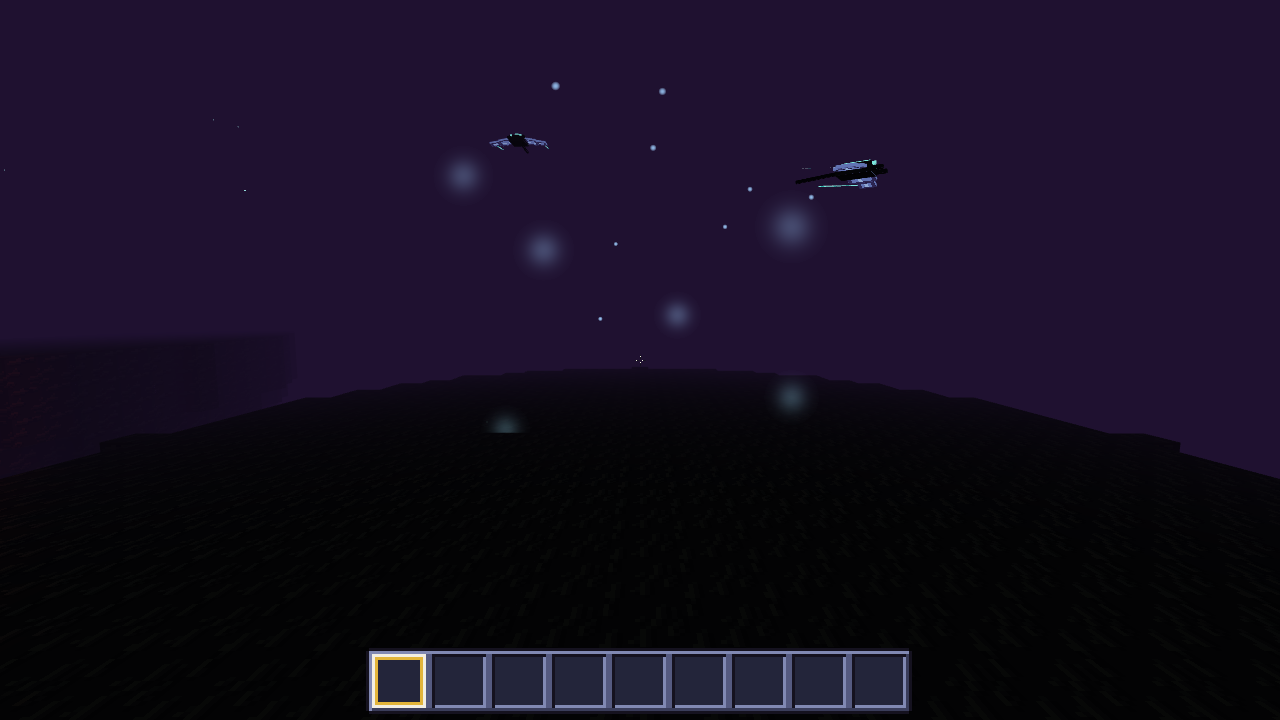
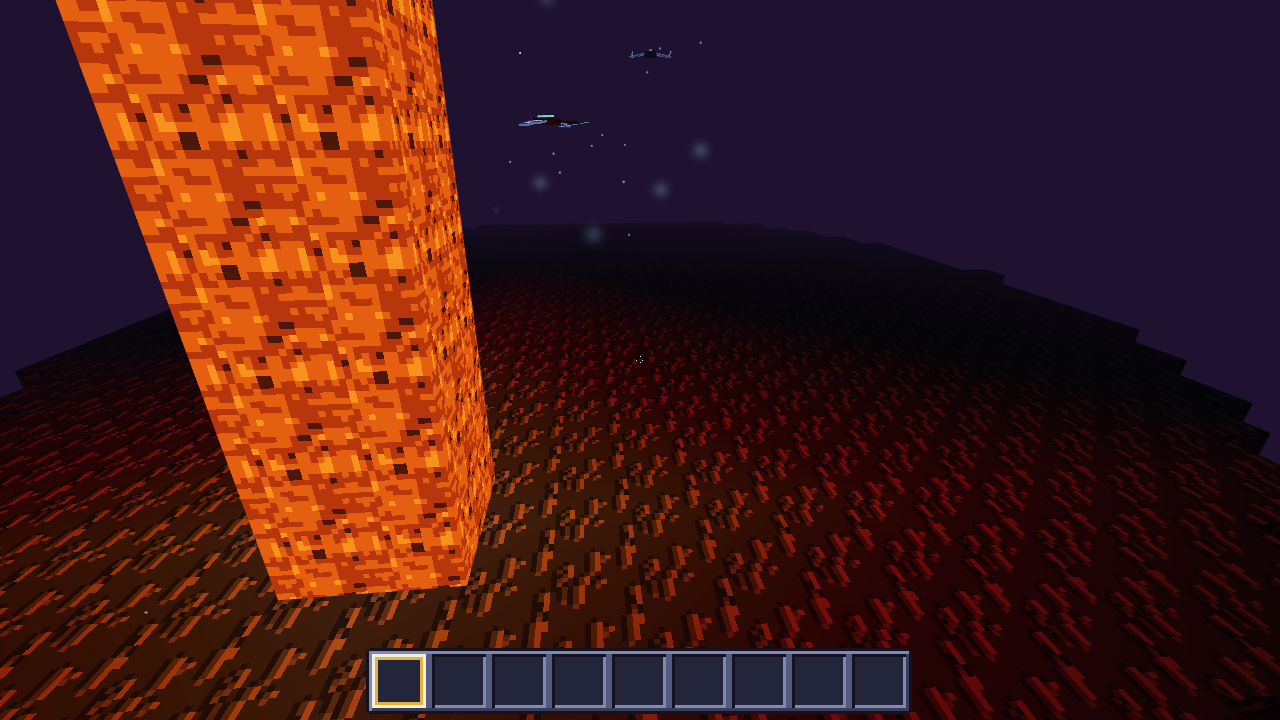
M20c: review round 1 fixes
- Reshoot m20-floating-islands beside a lavafall that pierces a
  floating island, so the lava-lit island top, Updraft halos and
  Glowwings are all visible; the spot checks the fall and ground blocks.
- Clear the Updraft field explicitly on travel, quit to menu and
  panorama teardown (clearUpdraftField), so the old world is not held.
- Magmaw ignites the player only when its hurtTarget hit lands.
- Unit tests for both fixes; handoff and decisions notes updated.

Claude-Session: https://claude.ai/code/session_0155bUSAtZkJMYBBcbMy8C9p

diff --git a/tests/e2e/m20c-updrafts-creatures.spec.ts b/tests/e2e/m20c-updrafts-creatures.spec.ts
@@ -15,8 +15,14 @@ const SEED = 'blockcraft-m20c';
 // Found from the seed's own fields (M20b's height field, the Updraft field and the island grid);
 // each test checks its spot before using it.
 const UPDRAFT = { x: 60.5, z: 22.5 };
-// A floating island with an Updraft rising through its middle.
-const ISLAND = { x: 167, z: -274, top: 97, updraft: { x: 168.5, z: -273.5 } };
+// A floating island pierced by a lavafall (a 2x2 ceiling fall), with an Updraft over its east half.
+const ISLAND = {
+  x: -223,
+  z: -26,
+  top: 116,
+  updraft: { x: -215.5, z: -25.5 },
+  fall: { x: -235, z: -29 },
+};
 const FOREST = { x: -15, z: 19 };
 const SHORE = { x: -29, z: -96 };
 
@@ -245,19 +251,25 @@ test('M20c: Hollowdeep forest, magma sea and floating islands look unlike the Ov
     height: sea.height / 2,
   });
 
-  // A floating island from its eastern rim, looking across its top through the Updraft's motes,
-  // with two Glowwings drifting over it.
+  // A floating island from beside its lavafall, looking east across the lava-lit top through the
+  // Updraft's motes, with two Glowwings drifting over it.
   await page.evaluate((island) => {
     const api = window.__blockcraft!;
-    api.spawn!('glowwing', island.x + 4.5, island.top + 7, island.z - 3.5);
-    api.spawn!('glowwing', island.x - 3.5, island.top + 10, island.z + 4.5);
+    api.spawn!('glowwing', island.x - 1.5, island.top + 6, island.z - 1.5);
+    api.spawn!('glowwing', island.x + 8.5, island.top + 9, island.z + 2.5);
   }, ISLAND);
-  await view(page, ISLAND.x + 14.5, ISLAND.top + 3, ISLAND.z + 0.5, Math.PI, -0.1);
-  const updraftHere = await page.evaluate(
-    (u) => window.__blockcraft!.findUpdraft!(u.x, u.z, 4),
-    ISLAND.updraft,
-  );
-  expect(updraftHere).toMatchObject(ISLAND.updraft);
+  await view(page, ISLAND.x - 17.5, ISLAND.top + 4, ISLAND.z - 0.5, 0.1, -0.4);
+  const spot = await page.evaluate((island) => {
+    const api = window.__blockcraft!;
+    return {
+      updraft: api.findUpdraft!(island.updraft.x, island.updraft.z, 4),
+      fall: api.getBlock!(island.fall.x, island.top + 2, island.fall.z).id,
+      ground: api.getBlock!(island.x, island.top, island.z).id,
+    };
+  }, ISLAND);
+  expect(spot.updraft).toMatchObject(ISLAND.updraft);
+  expect(spot.fall).toBe('lava');
+  expect(spot.ground).toBe('driftstone');
   biomes.island = await biomeAt(ISLAND);
   const islands = await assertAndSaveScreenshot({
     name: 'm20-floating-islands',

diff --git a/src/world/world-manager.ts b/src/world/world-manager.ts
@@ -83,7 +83,7 @@ import { PortalRenderer, WarpOverlay } from '../render/portal';
 import { SporeRenderer } from '../render/spores';
 import { LAVA_TICK_DELAY } from './fluids';
 import { HOLLOWDEEP_ENVIRONMENT } from '../gen/hollowdeep/environment';
-import { setUpdraftField, updraftField, UpdraftField } from './updrafts';
+import { clearUpdraftField, setUpdraftField, updraftField, UpdraftField } from './updrafts';
 import { UpdraftGlowRenderer } from '../render/updraft-glow';
 import { NIGHT_VISION_FLOOR } from '../gameplay/survival';
 import { setWorldDimension } from './world-dimension';
@@ -891,6 +891,7 @@ export class WorldManager {
       glBuffersAtStart: this.panoramaGlBuffersAtStart,
     };
     resetWeather();
+    clearUpdraftField();
     this.world = null;
     this.setWorldKind('default', { ...DEFAULT_WORLD_OPTIONS });
     if (this.panoramaSavedRenderDistance !== null)
@@ -925,6 +926,7 @@ export class WorldManager {
     this.playerController?.reset();
     this.chunkRenderer?.clearAllMeshes();
     this.meshAttempts.clear();
+    clearUpdraftField();
     this.world = null;
     this.resetDimensions('overworld');
     this.setWorldKind('default', { ...DEFAULT_WORLD_OPTIONS });
@@ -1464,10 +1466,8 @@ export class WorldManager {
       this.dimension === 'hollowdeep' ? HOLLOWDEEP_ENVIRONMENT.lavaFlowTickRate : LAVA_TICK_DELAY;
     // M20c: creature spawn rules follow the dimension, and only the Hollowdeep has Updrafts.
     setWorldDimension(world, this.dimension);
-    setUpdraftField(
-      world,
-      this.dimension === 'hollowdeep' ? new UpdraftField(this.worldSeed) : null,
-    );
+    clearUpdraftField();
+    if (this.dimension === 'hollowdeep') setUpdraftField(world, new UpdraftField(this.worldSeed));
   }
 
   /** Called after every tick: counts the player's time in a portal. Free while none is near. */
@@ -1591,6 +1591,8 @@ export class WorldManager {
       this.meshAttempts.clear();
       weatherManager.heightmap.clear();
       if (this.portalGuard) departing.listeners.delete(this.portalGuard);
+      // The world being left must not stay reachable through its Updraft field.
+      clearUpdraftField();
 
       this.dimension = to;
       const index = this.portalIndices[to];

diff --git a/tests/unit/m20c-updrafts-creatures.test.ts b/tests/unit/m20c-updrafts-creatures.test.ts
@@ -11,6 +11,7 @@ import {
   UPDRAFT_MAX_Y,
   UPDRAFT_MIN_Y,
   UpdraftField,
+  clearUpdraftField,
   gravityFactor,
   setUpdraftField,
   updraftField,
@@ -156,6 +157,14 @@ describe('M20c Updraft field', () => {
     setUpdraftField(overworld, null); // removing another world's field is a no-op
     expect(updraftField(world)).not.toBeNull();
     setUpdraftField(world, null);
+    expect(gravityFactor(world, z.x, 100, z.z)).toBe(1);
+  });
+
+  it('clearUpdraftField drops the field whichever world holds it', () => {
+    const { world, z } = updraftWorld();
+    expect(updraftField(world)).not.toBeNull();
+    clearUpdraftField();
+    expect(updraftField(world)).toBeNull();
     expect(gravityFactor(world, z.x, 100, z.z)).toBe(1);
   });
 });
@@ -503,6 +512,18 @@ describe('M20c Magmaw', () => {
     expect(near.player.hits[0]!.amount).toBe(5);
     expect(near.player.burning).toBe(MAGMAW_BURN_TICKS);
     near.runtime.dispose();
+  });
+
+  it('does not ignite a player whose i-frames absorb the hit', () => {
+    const s = lavaScene([5.5, GROUND, 0.5]);
+    const hurt = vi.spyOn(s.player, 'hurt').mockReturnValue(false);
+    const id = s.runtime.spawn(MAGMAW, 0.5, 61, 0.5);
+    run(s.ecs, 120);
+    expect(s.ecs.get(id, MagmawC)!.lunges).toBeGreaterThan(0);
+    expect(hurt).toHaveBeenCalled();
+    expect(s.ecs.get(id, MagmawC)!.hits).toBe(0);
+    expect(s.player.burning).toBe(0);
+    s.runtime.dispose();
   });
 
   it('goes straight back into the lava after landing on the shore', () => {

diff --git a/src/entity/mobs/magmaw.ts b/src/entity/mobs/magmaw.ts
@@ -234,8 +234,11 @@ export class MagmawGoal extends MobGoal {
         const own = this.runtime.entityBounds(this.id)!;
         const box = this.runtime.targetBounds(PLAYER_TARGET)!;
         if (boxGap(own, box) <= 0.35) {
-          if (this.runtime.hurtTarget(PLAYER_TARGET, MAGMAW_DAMAGE, this.id)) state.hits++;
-          target.ignite?.(MAGMAW_BURN_TICKS);
+          // Only a hit that lands (not one absorbed by i-frames) sets the player on fire.
+          if (this.runtime.hurtTarget(PLAYER_TARGET, MAGMAW_DAMAGE, this.id)) {
+            state.hits++;
+            target.ignite?.(MAGMAW_BURN_TICKS);
+          }
           this.setMode('return');
           return;
         }

diff --git a/src/world/updrafts.ts b/src/world/updrafts.ts
@@ -130,6 +130,12 @@ export function setUpdraftField(world: World, next: UpdraftField | null): void {
   }
 }
 
+/** Drops the field whichever world holds it, so a world left behind is not kept alive. */
+export function clearUpdraftField(): void {
+  fieldWorld = null;
+  field = null;
+}
+
 /** The Updraft field of `world`, if it has one. */
 export function updraftField(world: World): UpdraftField | null {
   return fieldWorld === world ? field : null;

diff --git a/progress/M20c.md b/progress/M20c.md
@@ -4,7 +4,7 @@ Status: verified
 Depends on: M20a, M20b, M16b
 Full verify: PR CI (owner override: no local full verify). This session:
 
-- `MILESTONE=M20 npm run verify:quick`: typecheck ✓ · lint ✓ · placeholders ✓ · unit 135 files / 1237 tests passed · e2e (m20a, m20b, m20c) 9 passed.
+- `MILESTONE=M20 npm run verify:quick`: typecheck ✓ · lint ✓ · placeholders ✓ · unit 135 files / 1239 tests passed · e2e (m20a, m20b, m20c) 9 passed.
 - Touched-milestone e2e (m06, m06b, m13d–h, m14, m16b, m17b): 53 passed.
 
 ## Acceptance criteria owned
@@ -15,7 +15,7 @@ Full verify: PR CI (owner override: no local full verify). This session:
 - [x] E2E Hollowdeep pixel and hue checks → the same spec › "Hollowdeep forest, magma sea and
       floating islands look unlike the Overworld": not blank, no missing texture, colour
       variance, every scene's mean hue ≥ 45° from the Overworld reference (measured 341°, 352°
-      and 265° vs 178°), lava red over blue in the sea view.
+      and 6° vs 178°), lava red over blue in the sea view.
 - [x] Updrafts affect players, creatures, items and falling blocks →
       `tests/unit/m20c-updrafts-creatures.test.ts` › "M20c shared gravity factor" (player,
       `moveMob`, `ItemEntityManager`, primed Blast Charges).
@@ -26,8 +26,9 @@ Full verify: PR CI (owner override: no local full verify). This session:
       file › "M20c flight pathfinding" and "M20c Glowwing".
 - [x] Glowwing circles, dives, hits, climbs out; health 14; drops Luminous Membrane → "M20c
       Glowwing".
-- [x] Magmaw lava-only swimming, lava immunity, lunge within 6 (not beyond), ignite and burn,
-      return to lava; health 24; drops Emberite Scale → "M20c Magmaw".
+- [x] Magmaw lava-only swimming, lava immunity, lunge within 6 (not beyond), ignite and burn
+      (only when the hit lands, not when i-frames absorb it), return to lava; health 24; drops
+      Emberite Scale → "M20c Magmaw".
 - [x] Dimension-aware spawn rules, spot tests, Hollowdeep spawns only Hollowdeep creatures
       within the hostile cap → "M20c Hollowdeep spawning".
 - [x] Glowcap Stew recipe; 30 s night vision that counts down, saves, and clears on death →
@@ -44,13 +45,14 @@ Full verify: PR CI (owner override: no local full verify). This session:
     more glowcap trees fade into fog on the right.
 - `m20-magma-sea.png`: a wide bright-orange lava sea stretching to a violet-black fog horizon,
   with a dark red duskrock shore at the lower left.
-- `m20-floating-islands.png`: the weakest of the five.
-  - The dark top of a Driftstone island fills the lower half; its far rim sits against violet
+- `m20-floating-islands.png` (reshot in review round 1):
+  - Taken from a floating island's top beside a 2×2 lavafall that pierces it, looking across
+    the island.
+  - The bright orange lava column fills the left third. The island's top glows orange-red near
+    the fall and fades to dark red and then black toward its far rim, which sits against violet
     fog.
-  - A column of pale cyan-white motes and soft halos rises above it (the Updraft), with two
-    Glowwings showing pale wings and cyan glow overhead.
-  - The island blocks are almost unlit: M20b's terrain lighting, unchanged here. Owner, please
-    judge it against "colored lighting visible".
+  - Above the island, pale cyan-white Updraft motes and soft halos rise, with two Glowwings
+    (pale wings, cyan glow) drifting among them.
 - `m20-glowwing.png` (close-up): a Glowwing over the glowcap forest. Pale lavender glowing wing
   membranes with a lighter vein, a dark body disc and tail, a cyan seam and eyes, and a trailing
   cyan-white light ribbon. Lava shows in the lower left corner.
@@ -101,6 +103,8 @@ Full verify: PR CI (owner override: no local full verify). This session:
   saves.
 - **M20a world manager:**
   - `attachDimension` tags the world's dimension and installs or removes the Updraft field.
+  - The Updraft field is cleared explicitly (`clearUpdraftField`) on travel, on quit to menu and
+    when the panorama world is torn down, so a world left behind is not kept alive.
   - `drawTerrain` passes the cavern fog and draws the glow.
 
 ## Decisions
@@ -113,7 +117,8 @@ Full verify: PR CI (owner override: no local full verify). This session:
   "translucent" membrane is a pale emissive palette, not alpha blending.
 - **"Falling blocks" means Blast Charges:** the game has no falling sand or gravel, so primed
   Blast Charges are the only falling-block entity.
-- **Dim islands:** floating islands are nearly unlit outside the Updraft glow (M20b lighting).
+- **Dim islands:** M20b's lighting is unchanged, so a floating island is lit only near a lavafall
+  and is otherwise dark. The islands screenshot is framed beside one.
 - **Night vision test coverage:** the screen brightening is covered by code review and the unit
   test of the timer, with no pixel test.
 

diff --git a/decisions/M20c-updrafts-creatures.md b/decisions/M20c-updrafts-creatures.md
@@ -10,7 +10,8 @@
    scanned and nothing is allocated per tick.
 2. **One shared gravity factor, zero Overworld cost.** `gravityFactor(world, x, y, z)` returns 0.4
    inside an Updraft and 1 elsewhere. Only one world (the active Hollowdeep) holds a field, set by
-   `WorldManager.attachDimension`. Every other world returns 1 after two comparisons. The player
+   `WorldManager.attachDimension` and dropped by `clearUpdraftField()` on travel, quit to menu and
+   panorama teardown. Every other world returns 1 after two comparisons. The player
    (32 b/s²), mobs (`MOB_GRAVITY`), item entities (12 b/s²) and primed Blast Charges (0.04/tick)
    multiply their gravity by it. Blast Charges are the game's only falling-block entity; no
    falling sand or gravel exists. No properties are added to World or Player; the dimension tag is
@@ -45,8 +46,8 @@
    - Swimming: in lava it swims (`flying` while in lava, so no gravity) toward random lava cells
      within 8 blocks. It refuses any step whose next cell is not lava.
    - Lunge: with the player within 6 blocks and the 60-tick cooldown elapsed, it leaps toward
-     them. Contact deals 5 damage through `hurtTarget` (i-frames) and sets them on fire for 100
-     ticks through the new `MobPlayer.ignite`, which raises `survival.burningTicks` (the existing
+     them. Contact deals 5 damage through `hurtTarget` (i-frames) and, only when that hit lands,
+     sets them on fire for 100 ticks through the new `MobPlayer.ignite`, which raises `survival.burningTicks` (the existing
      burn path, survival mode only).
    - Out of lava it crawls straight back to the last lava cell it was in, never wandering.
    - No mob takes lava or fire damage in this codebase, so it is immune by construction; a unit
